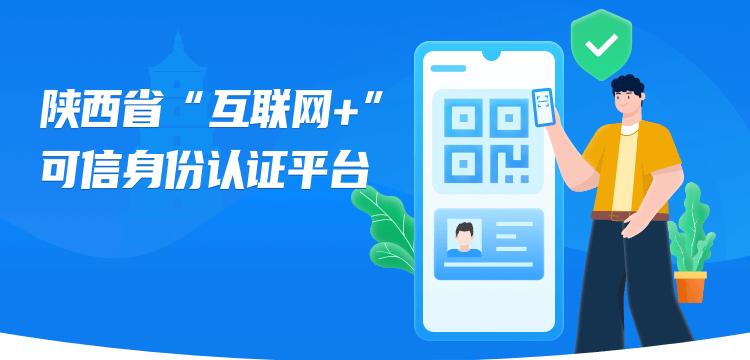
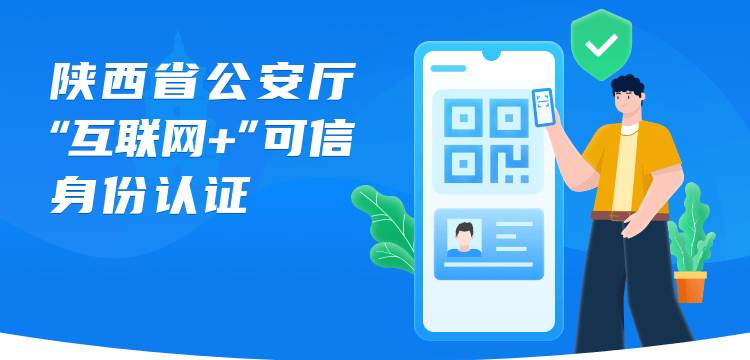
1.修复部分手机频繁丢失loginToken的bug 2.替换banner图 3.支付宝小程序认证完成后返回h5的url

Changed region(s): [[0.0307, 0.1528, 0.5213, 0.6111]]

diff --git a/src/pages/login/index.vue b/src/pages/login/index.vue
@@ -62,7 +62,7 @@ import {handleCollectInfo} from '@utils/collectInfo'
 import {getCertToken, checkCerTokenAgent, getUserIdKey, checkCertCodeAgent, getCertifyResult, getUserPhoneNum} from '@api/auth'
 import {register} from '@api/login'
 import {checkIsSupportFacialRecognition, startFacialRecognitionVerify, alipayGetPhoneNumber} from '@utils/taro'
-import {isLogin, idcardRex} from '@utils/index'
+import {isLogin, idcardRex, backToH5Url} from '@utils/index'
 import {alipayAuth} from '@utils/alipayAuth'
 
 // 用户录入信息
@@ -207,8 +207,9 @@ const handleConfirm = async () => {
   // 如果从第三方小程序跳转过来，就要重新收集信息
   let collectionInfo = await handleCollectInfo()
   // 5.校验活体检测结果
+  let result
   if (ISALIPAY){
-    await getCertifyResult({
+    result = await getCertifyResult({
       ...verifyResult,
       collectionInfo,
       usedAgent: canSelfAuth.value,
@@ -221,11 +222,14 @@ const handleConfirm = async () => {
       } else if (Number(Taro.getStorageSync('loginType'))===1){ // 第三方跳转
         Taro.navigateBackMiniProgram({extraData: {}})
       } else {
-        // Taro.ap.navigateToAlipayPage()
+        Taro.ap.navigateToAlipayPage({
+          path: encodeURIComponent(`${backToH5Url}?mode=${mode.value}&data=${data}`)
+        })
       }
+      return false
     })
   } else {
-    await checkCertCodeAgent({
+    result = await checkCertCodeAgent({
       collectionInfo,
       usedAgent: canSelfAuth.value,
       usedMode: mode.value,
@@ -275,7 +279,16 @@ const handleConfirm = async () => {
         if (Number(Taro.getStorageSync('loginType'))===1){
           Taro.navigateBackMiniProgram({extraData: {}})
         } else {
-          // Taro.ap.navigateToAlipayPage()
+          console.log(`${backToH5Url}?mode=${mode.value}&data=${result.data}`)
+          Taro.ap.navigateToAlipayPage({
+            path: `${backToH5Url}?mode=${mode.value}&data=${result.data}`,
+            success: () => {
+
+            },
+            fail: (e) => {
+              console.log(e)
+            }
+          })
         }
       }
     })

diff --git a/src/utils/index.js b/src/utils/index.js
@@ -32,7 +32,7 @@ export async function isLogin(){
     Taro.setStorageSync('loginToken', loginToken)
     Taro.setStorageSync('loginUser', loginUser)
 
-    if (!Taro.getStorageSync('loginToken')){
+    if (!loginToken){
       if (ISALIPAY) Taro.setStorageSync('aesUserId', userData.aesUserId) // 加密后的userId
       else Taro.setStorageSync('aesUnionId', userData.aesUnionId) // 加密后的unionId
     }
@@ -65,3 +65,8 @@ export function formatDate(timestamp) {
   * 身份号码正则
  */
 export const idcardRex = /^[1-9]\d{7}((0\d)|(1[0-2]))(([0|1|2]\d)|3[0-1])\d{3}$|^[1-9]\d{5}[1-9]\d{3}((0\d)|(1[0-2]))(([0|1|2]\d)|3[0-1])\d{3}([0-9]|X)$/
+
+/**
+  * 返回h5页面地址
+ */
+export const backToH5Url = 'https://sfrz.shxga.gov.cn/auth/sxauthalipay/authResult.html'

diff --git a/src/pages/index/index.vue b/src/pages/index/index.vue
@@ -118,8 +118,8 @@ const handleLogin = () => {
     content: '您尚未登录',
     confirmText: '立即登录',
     cancelText: '暂不登录',
-    success: (res) => {
-      if (res.confirm) {
+    success: ({confirm}) => {
+      if (confirm) {
         loginNow()
       }
     }
@@ -242,7 +242,7 @@ const loopGetAuthList = async() => {
 }
 // 轮询接口获取认证记录 end
 
-useDidShow(async () => {
+useDidShow(() => {
   const currentInstance = Taro.getCurrentInstance().page
   if (Taro.getTabBar) Taro.getTabBar(currentInstance).selected = 0
 

diff --git a/src/utils/request.js b/src/utils/request.js
@@ -96,7 +96,6 @@ function request (options = {}) {
         Taro.hideLoading()
         console.log({
           baseOptions,
-          options,
           result: e,
         })
       },
